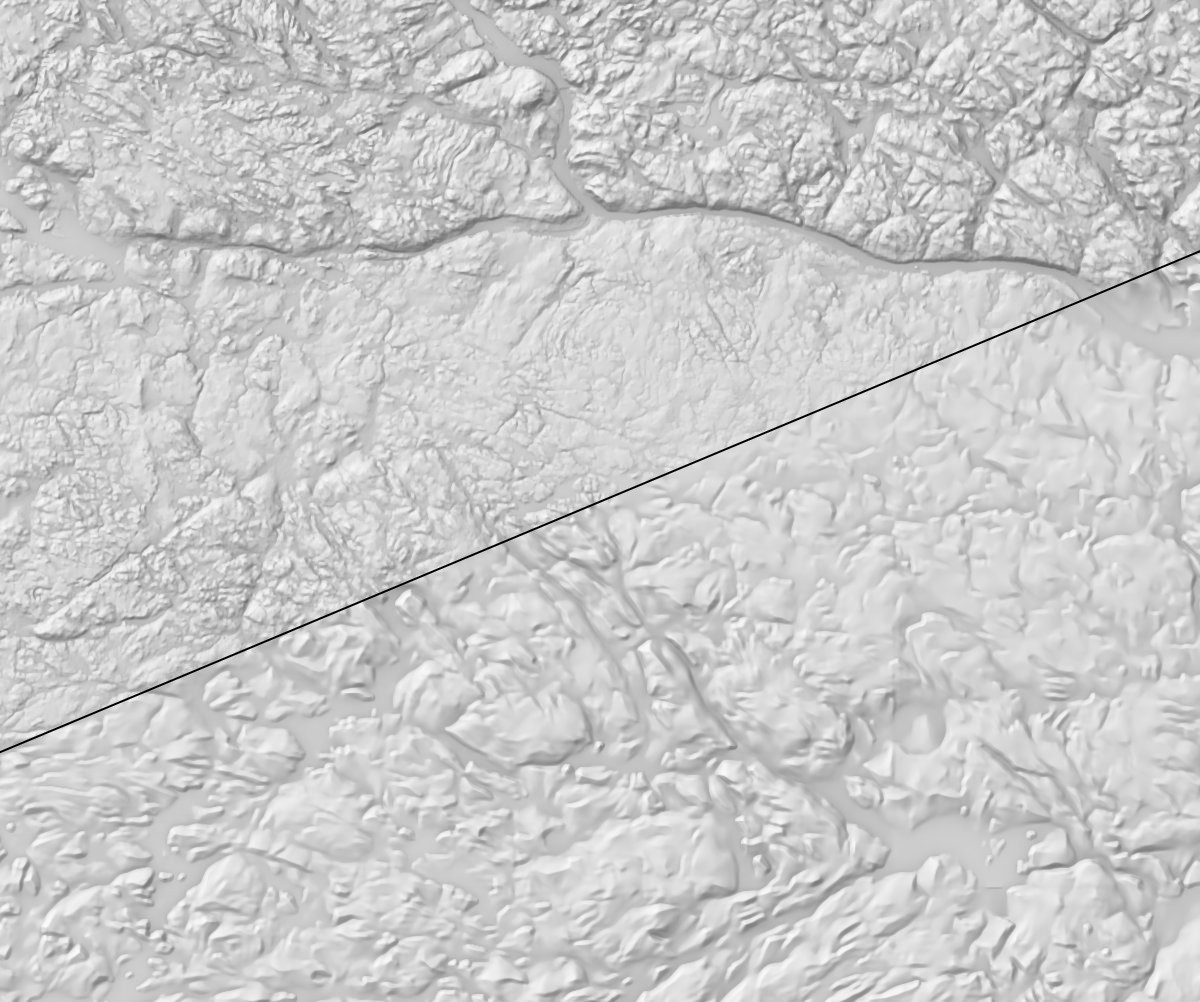
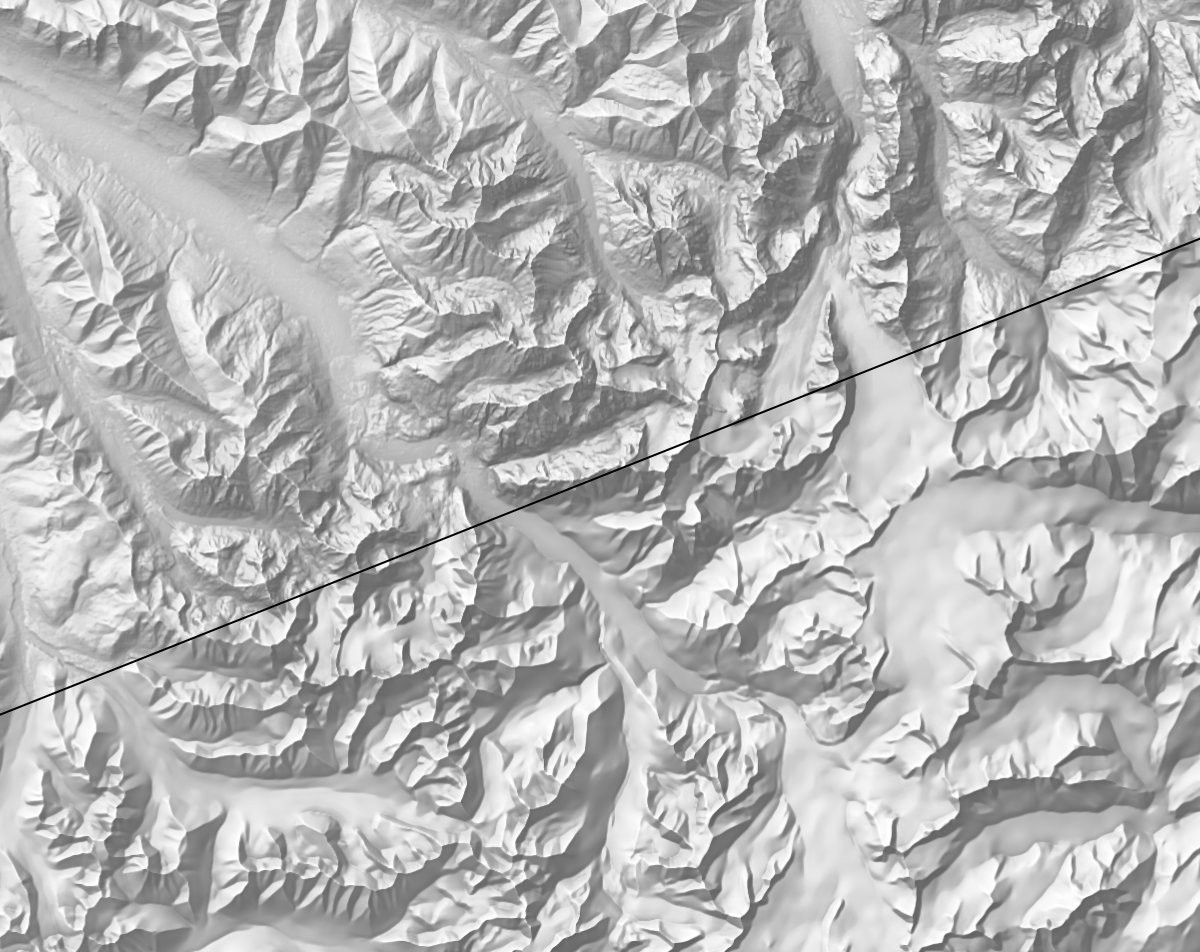
Add bathymetry filter to hillshade panel

diff --git a/docs/guides/shaded-relief.md b/docs/guides/shaded-relief.md
@@ -112,7 +112,7 @@ For the most control over how a hillshade is combined with another layer, make i
 - **Exaggeration** adjusts the vertical scale of the terrain. The slider is centered on an automatic value based on the scale of the map (small-scale maps get more exaggeration).
 - **Smoothing** (Off, 1-4) removes noisy detail while keeping major landforms sharp. Mapshaper's smoothing function adapts to the terrain, smoothing more or less according to the average slope in the immediate area. Smoothing changes only the hillshade; to smooth elevations for other uses, like contours or tints, use the [`-smooth-terrain`](/docs/reference.html#-smooth-terrain) or [`-blur`](/docs/reference.html#-blur) console command. The figure below shows the difference between no smoothing and maximum smoothing.
 
-![Hilly terrain with no smoothing in the upper left and smoothing 4 in the lower right, divided by a diagonal line; the smoothed side has less fine detail, while the main ridges and valleys stay sharp](/docs/images/shaded-relief-smoothing-compare.jpg)
+![Glaciated mountains in the Chugach range of Alaska, with no smoothing in the upper left and smoothing 4 in the lower right, divided by a diagonal line; the smoothed side has less fine detail, while the main ridges and valleys stay sharp](/docs/images/shaded-relief-smoothing-compare.jpg)
 
 #### Effects
 
@@ -125,7 +125,6 @@ For the most control over how a hillshade is combined with another layer, make i
 
 A few settings are only available in the console:
 
-- `-hillshade min-elevation=0` flattens the sea floor, so that bathymetry isn't shaded.
 - [`-sharpen`](/docs/reference.html#-sharpen) applies an unsharp mask to the finished hillshade, for a crisper appearance.
 - `-hillshade verbose` prints every settable parameter, including the automatic ones.
 

diff --git a/CHANGELOG.md b/CHANGELOG.md
@@ -1,5 +1,6 @@
 v0.8.11
 * Renamed the Dymaxion projections. `airocean` (gnomonic facets, formerly `dymaxion2`) matches PROJ's `+proj=airocean`, including its `+orient` parameter and its handling of ellipsoids, so GDAL and other PROJ-based software can read files that use it. `airocean2` (Gray-Fuller facets, formerly `dymaxion`) uses the same layout. Both are horizontal by default. `dymaxion` and `dymaxion2` still work, with their old coordinates.
+* [web] The hillshade panel has a Bathymetry setting for elevation rasters with values below 0: Shade, or Flatten (`min-elevation=0`), which flattens the sea floor.
 
 v0.8.10
 * New -resample command, which changes the resolution of a raster layer: relative to the map frame (`2x`, `300dpi`), by a percentage (`50%`) or to a width (`4000px`). The `crop` option crops the raster to the frame, plus a margin.
